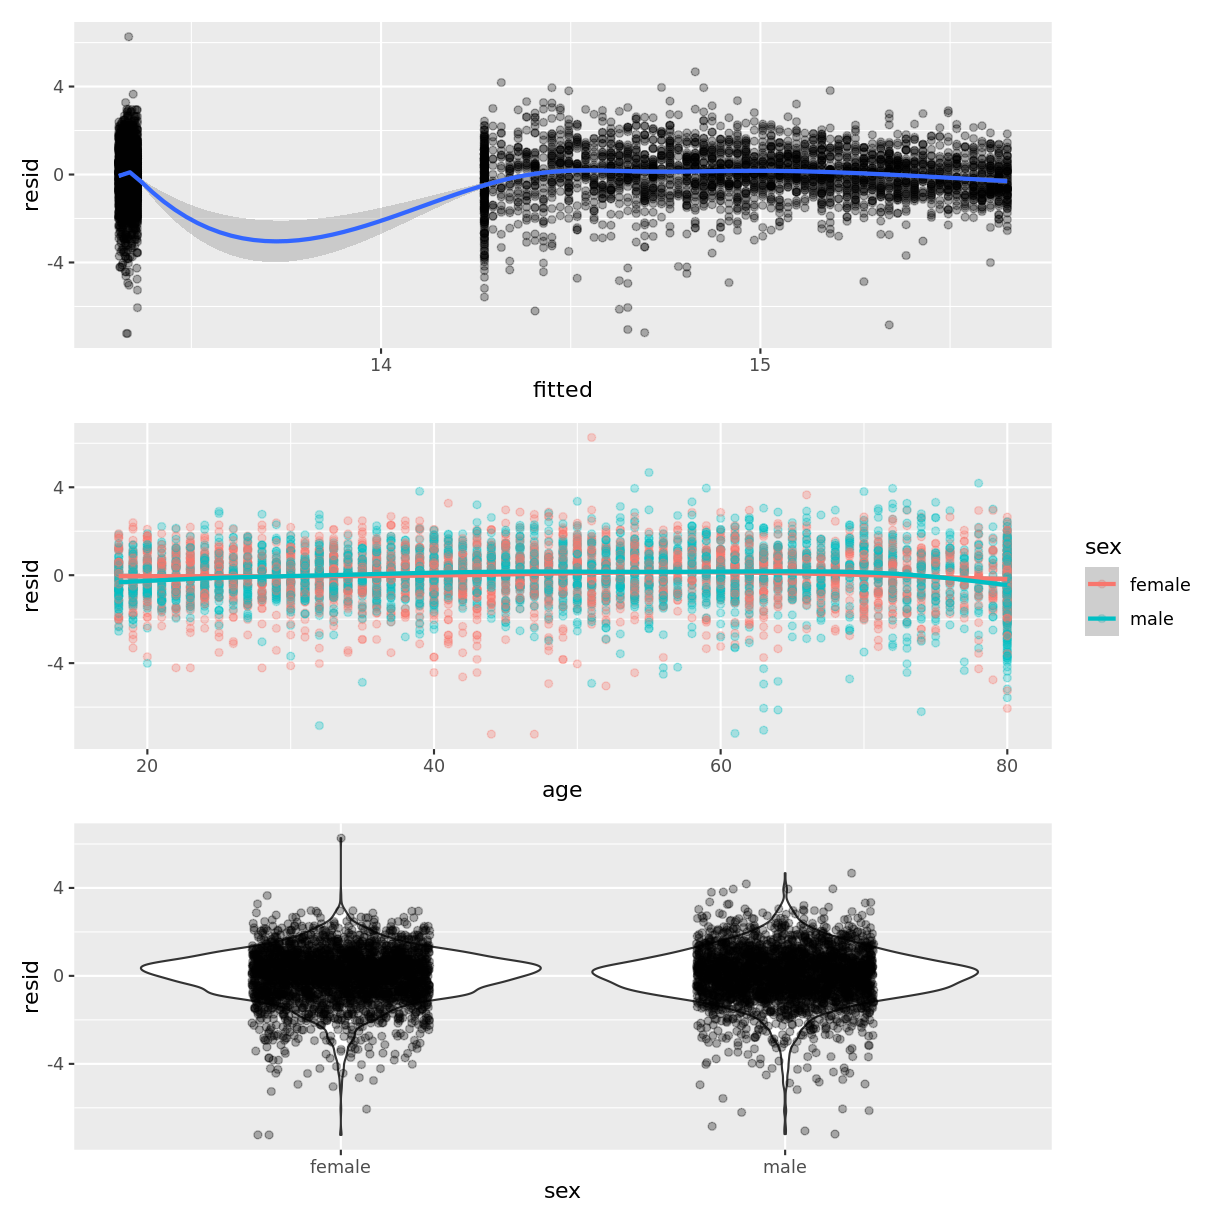
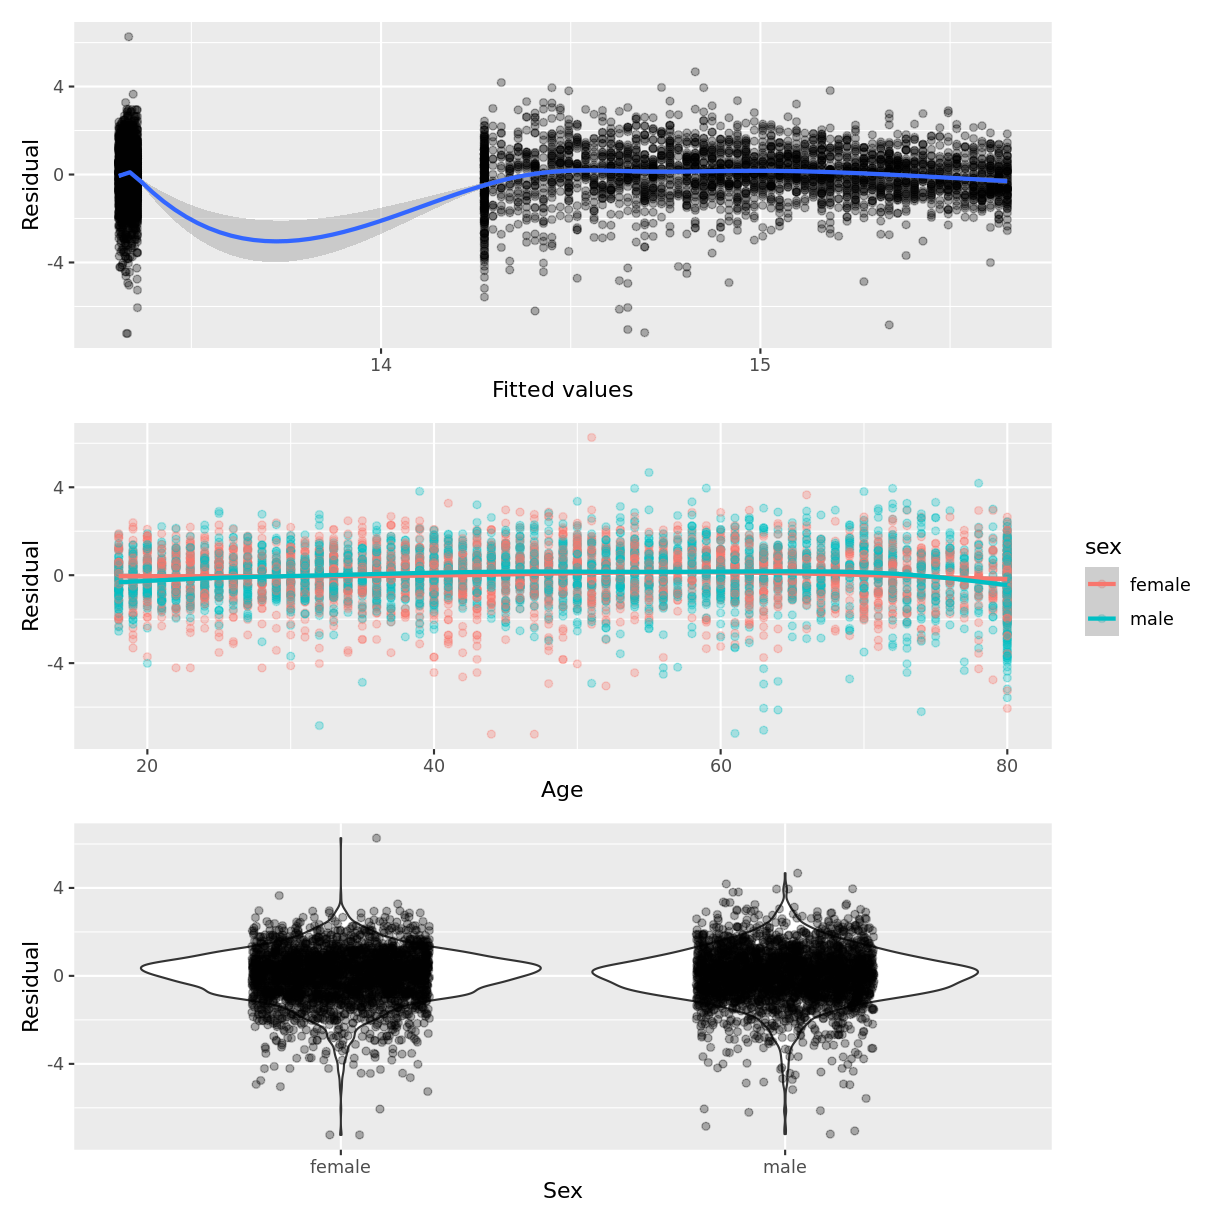
small fixes

diff --git a/_episodes/01-contAndCat.md b/_episodes/01-contAndCat.md
@@ -28,7 +28,7 @@ In this episode we will learn to fit a linear regression model when we have two 
 
 
 ## Exploratory plots
-Let us take the response variable `BMI`, the continuous explanatory variable `Weight` and the categorical explanatory variable `Sex` as an example. The code below subsets our data for individuals who are older than 17 years with `filter()`. The plotting is then initiated using `ggplot()`. Inside `aes()`, we select the response variable with `y = BMI`, the continuous explanatory variable with `x = Weight` and the categorical explanatory variable with `colour = Sex`. As a consequence of the final argument, the points produced by `geom_point()` are coloured by `Sex`. Finally, we include opacity using `alpha = 0.2`, which allows us to distinguish areas dense in points from sparser areas. Note that RStudio returns the error "Removed 320 rows containing missing values (geom_point)." - this reflects that 320 participants had missing BMI and/or Weight data. 
+Let us take the response variable `BMI`, the continuous explanatory variable `Weight` and the categorical explanatory variable `Sex` as an example. The code below subsets our data for individuals who are older than 17 years with `filter()`. The plotting is then initiated using `ggplot()`. Inside `aes()`, we select the response variable with `y = BMI`, the continuous explanatory variable with `x = Weight` and the categorical explanatory variable with `colour = Sex`. As a consequence of the final argument, the points produced by `geom_point()` are coloured by `Sex`. Finally, we include opacity using `alpha = 0.2`, which allows us to distinguish areas dense in points from sparser areas. Note that RStudio returns the warning "Removed 320 rows containing missing values (geom_point)." - this reflects that 320 participants had missing BMI and/or Weight data. 
 
 The plot suggests that on average, participants classed as female have a higher `BMI` than participants classed as male, for any particular value of `Weight`. We might therefore want to account for this in our model by having *separate intercepts* for the levels of `Sex`.
 
@@ -81,7 +81,7 @@ BMI_Weight_Sex <- dat %>%
 
 The linear model equation associated with this model has the general form
 
-$$E(y) = \beta_0 + \beta_1 \times x_1 + \beta_2 \times x_2$$.  
+$$E(y) = \beta_0 + \beta_1 \times x_1 + \beta_2 \times x_2.$$  
 
 Notice that we now have the additional parameters, $\beta_2$ and $x_2$, in comparison to the simple linear regression model equation. In the context of our model, $\beta_1$ is the parameter for the effect of `Weight` and $\beta_2$ is the parameter for the effect of `Sex`. Recall from the simple linear regression lesson that a categorical variable has a baseline level in R. The parameter associated with the categorical variable then estimates the difference in the outcome variable in a group different from the baseline. Since "f" precedes "m" in the alphabet, R takes `female` as the baseline level. Therefore, $\beta_2$ estimates the difference in BMI between males and females, given a particular value for `Weight`. $\beta_2$ is only included when $x_2 = 1$, i.e. when the `Sex` of a participant is `male`. This results in separate intercepts for the levels of `Sex`: the intercept for `females` is given by $\beta_0$ and the intercept for `males` is given by $\beta_0 + \beta_2$. In this model, the effect of `Weight` is given by $\beta_1$, irrespective of the `Sex` of a participant. This results in equal slopes across the levels of `Sex`. 
 

diff --git a/_episodes/04-assumptionsAndFit.md b/_episodes/04-assumptionsAndFit.md
@@ -77,7 +77,7 @@ will be larger.
 > > ~~~
 > > {: .output}
 > > 
-> > Since $R^2_{adj} = 0.339$, our model accounts for approximately 34% of the variation in
+> > Since $R^2_{adj} = 0.34$, our model accounts for approximately 34% of the variation in
 > > `Hemoglobin`. Our model explains 34% of the variation in `Hemoglobin`, which
 > > a model that always predicts the mean would not. 
 > {: .solution}
@@ -235,21 +235,27 @@ being loaded and results in the three graphs being plotted in vertical sequence.
 
 ~~~
 residualData <- tibble(resid = resid(Hemoglobin_Age_Sex),
-                   fitted = fitted(Hemoglobin_Age_Sex),
-                   age = Hemoglobin_Age_Sex$model$Age,
-                   sex = Hemoglobin_Age_Sex$model$Sex)
+                       fitted = fitted(Hemoglobin_Age_Sex),
+                       age = Hemoglobin_Age_Sex$model$Age,
+                       sex = Hemoglobin_Age_Sex$model$Sex)
 
 p1 <- ggplot(residualData, aes(x = fitted, y = resid)) +
- geom_point(alpha = 0.3) +
- geom_smooth()
+  geom_point(alpha = 0.3) +
+  geom_smooth() +
+  ylab("Residual") +
+  xlab("Fitted values")
 
 p2 <- ggplot(residualData, aes(x = age, y = resid, colour = sex)) +
- geom_point(alpha = 0.3) +
- geom_smooth()
+  geom_point(alpha = 0.3) +
+  geom_smooth() +
+  ylab("Residual") +
+  xlab("Age")
 
 p3 <- ggplot(residualData, aes(x = sex, y = resid)) +
- geom_violin() + 
- geom_jitter(alpha = 0.3, width = 0.2) 
+  geom_violin() + 
+  geom_jitter(alpha = 0.3, width = 0.2) +
+  ylab("Residual") +
+  xlab("Sex")
 
 
 p1 / p2 / p3

diff --git a/_episodes/02-contAndCatInt.md b/_episodes/02-contAndCatInt.md
@@ -181,10 +181,10 @@ Age:Sexmale         -0.28   0.02   -12.68   0.00
 > > B) On average, individuals from the two categories are expected to differ
 > > by 2.76 g/dL at an `Age` of 0.    
 > > C) On average, female participants with a one-unit difference in `Age` 
-> > are expected to differ by 0.00 in their `Hemoglobin` concentration. So, not at all.
+> > are expected to differ by 0.00 in their `Hemoglobin` concentration. So, not at all.  
 > > D) On average, male participants with a one-unit difference in `Age` 
 > > are expected to differ by 0.02 in their `Hemoglobin` concentration.   
-> > E) $E(\text{Hemoglobin}) = 13.29 + 0.00 \times \text{Age} + 2.76 \times x_2 - x_2 \times 0.02 \times \text{Age}$, where $x_2 = 1$ for participants of the male `Sex` and $0$ otherwise.
+> > E) $E(\text{Hemoglobin}) = 13.29 + 0.00 \times \text{Age} + 2.76 \times x_2 - 0.02 \times \text{Age} \times x_2$, where $x_2 = 1$ for participants of the male `Sex` and $0$ otherwise.
 > {: .solution}
 {: .challenge}
 

diff --git a/_episodes/03-pred.md b/_episodes/03-pred.md
@@ -42,10 +42,11 @@ $$E(\text{BPSysAve}) = 93.39 + 0.55 \times 30 + 17.06 \times 1 - 0.28 \times 1 \
 >as 
 >$$E(\text{Hemoglobin}) = 13.29 + 0.00 \times \text{Age} + 2.76 \times x_2 - 0.02 \times x_2 \times \text{Age}$$, 
 >where $x_2 = 1$ for participants of the male `Sex` and $0$ otherwise. 
->
+> 
 >1. What level of Hemoglobin does the model predict, on average, 
 >for an individual of the female `Sex` with an `Age` of 40? 
 >2. What `Hemoglobin` is predicted for a male of the same `Age`?
+> 
 > > ## Solution
 > > For 40-year old females: $13.29 + 0.00 \times 40 + 2.76 \times 0 - 0.02 \times 0 \times 40 = 13.29$.  
 > > For 40-year old males: $13.29 + 0.00 \times 40 + 2.76 \times 1 - 0.02 \times 1 \times 40 = 13.29 + 2.76 - 0.8 = 15.25$.
